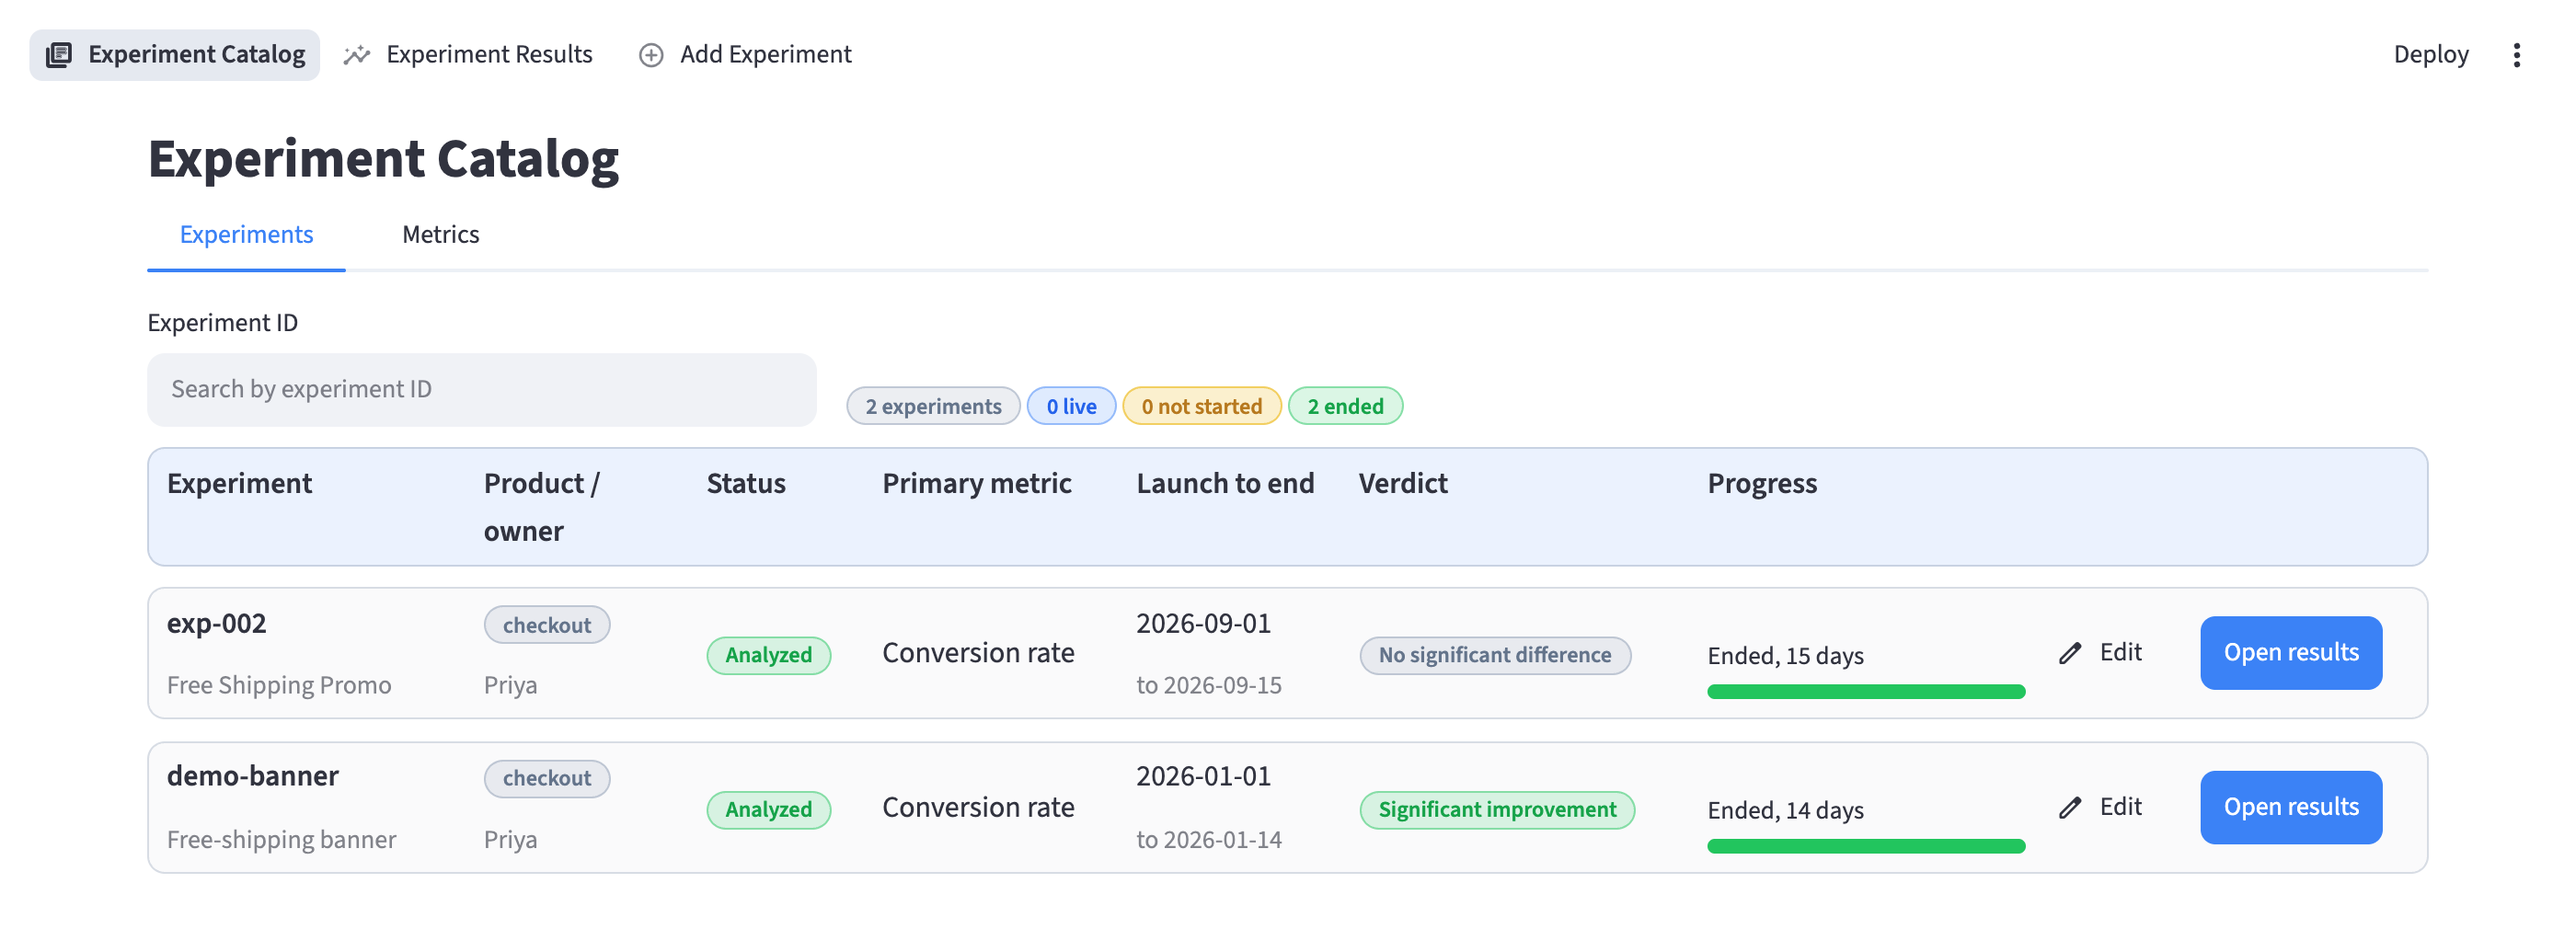
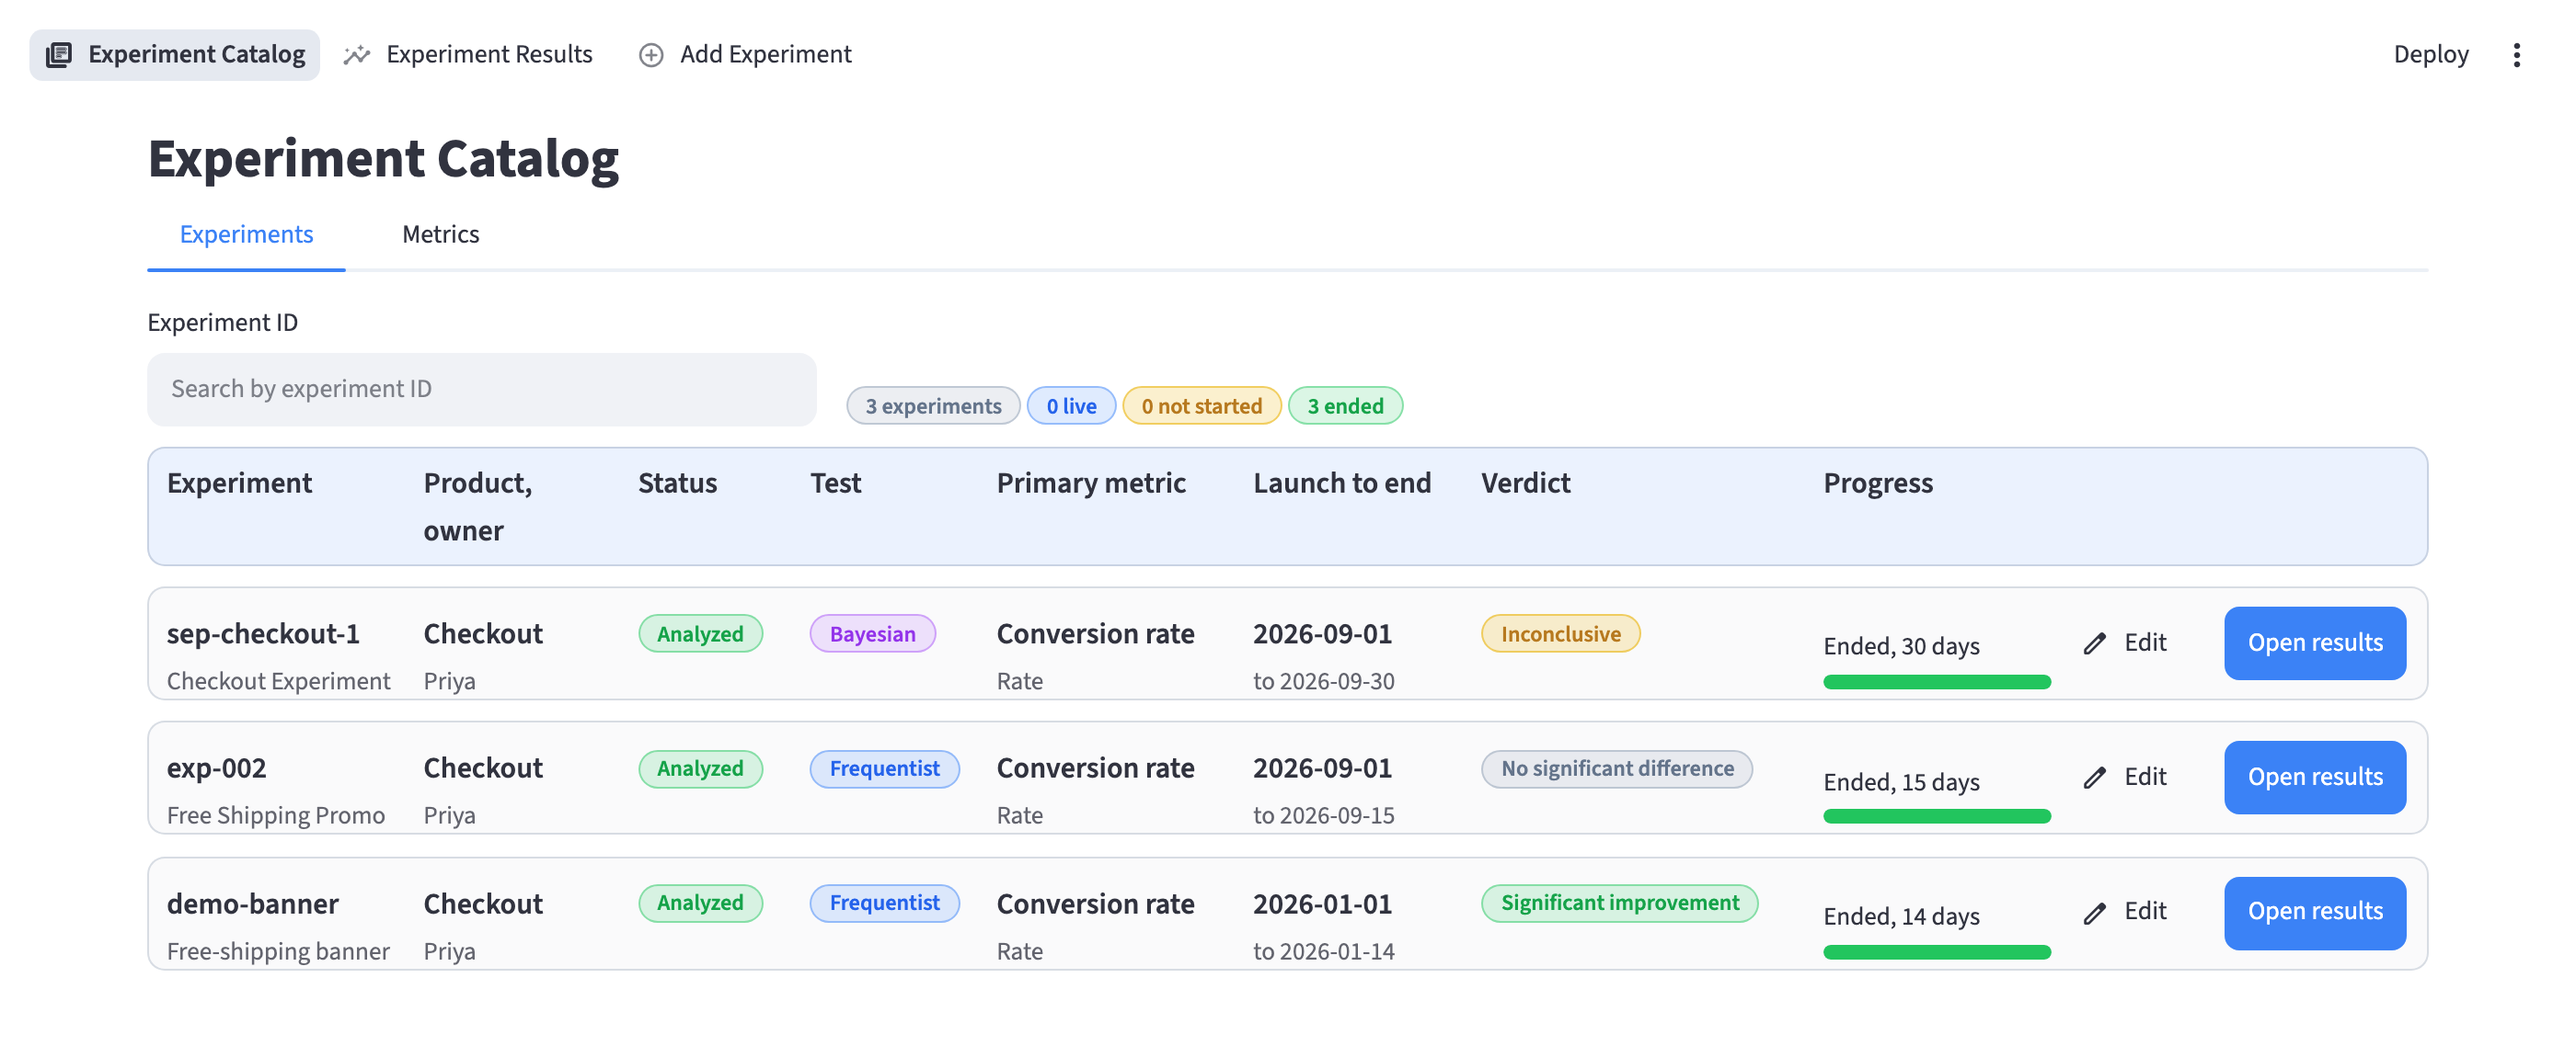
Refresh README, docs and screenshots for the Bayesian method
The README screenshots are retaken from the running app (light theme,
1400 px at 2x): the catalog with its new Test column, the frequentist
results and charts with the new verdict card, new Bayesian results and
charts, and the Add Experiment form with the Bayesian inputs.

Docs
- README: new screenshot captions, the dropdown search and Apply
  button, the verdict card, and the offline test count (458).
- TECH_SPEC: Results, Add Experiment and Catalog page descriptions.
- PLAN.md and the decisions log: note the Bayesian method and the
  refresh.

Catalog table
- Widen the verdict, primary metric and Edit columns so the verdict
  chip and the Edit button no longer wrap or get cut off at desktop
  width, keep chips on one line, and pad the second line of each cell.

diff --git a/app/ui.py b/app/ui.py
@@ -51,13 +51,13 @@ h2, h3 { font-size: 1.15rem !important; font-weight: 650 !important; padding: .1
 [data-testid="stExpander"] { border-radius: .6rem; }
 [data-testid="stAlert"] { border-radius: .6rem; }
 /* chips */
-.chip { display: inline-block; padding: .08rem .6rem; border-radius: 999px; font-size: .76rem; font-weight: 600; border: 1px solid; line-height: 1.35; word-break: keep-all; overflow-wrap: normal; }
+.chip { display: inline-block; padding: .08rem .6rem; border-radius: 999px; font-size: .76rem; font-weight: 600; border: 1px solid; line-height: 1.35; word-break: keep-all; overflow-wrap: normal; white-space: nowrap; }
 .meta { font-size: .85rem; opacity: .85; margin: .15rem 0; }
 .meta b { opacity: 1; }
 .section-note { font-size: .8rem; opacity: .75; margin-top: -.2rem; }
 /* catalog rows: every cell is two lines (a main line and a quieter one) so the columns line up */
 .cell .l1 { font-weight: 600; min-height: 1.9rem; display: flex; align-items: center; }
-.cell .l2 { font-size: .85rem; opacity: .75; min-height: 1.3rem; }
+.cell .l2 { font-size: .85rem; opacity: .75; min-height: 1.3rem; padding-bottom: .3rem; }
 .cell .live { color: #2563eb; opacity: 1; }
 .st-key-cat_header { background: rgba(59,130,246,.10); border: 1px solid rgba(148,163,184,.4); border-radius: .6rem; padding: .35rem .6rem; }
 [class*="st-key-cat_row_"] { border: 1px solid rgba(148,163,184,.35); border-radius: .6rem; padding: .6rem .6rem; background: rgba(148,163,184,.05); }

diff --git a/app/experiment_catalog.py b/app/experiment_catalog.py
@@ -16,7 +16,7 @@ from p2.pipeline.runner import end_of
 
 ss = st.session_state
 MAX_ROWS = 50
-WIDTHS = [2.0, 1.3, 1.3, 1.3, 1.5, 1.4, 2.1, 2.2, 0.9, 1.5]
+WIDTHS = [1.8, 1.5, 1.2, 1.3, 1.8, 1.6, 2.4, 1.8, 1.0, 1.5]
 
 
 def progress_of(launch: date, end: date, today: date) -> tuple[float, str]:

diff --git a/TECH_SPEC.md b/TECH_SPEC.md
@@ -192,9 +192,9 @@ What the data scientist enters:
 
 | Page | Purpose | Roles |
 |---|---|---|
-| Experiment Results | A search box for the Experiment ID. Above two tabs: name, hypothesis, product, owner, status, "Day 12 of 14", the Edit button (opens the experiment in the Experiment Catalog) and Refresh monitoring or Run final analysis or Run. Tab Tables: Segment (Everyone or a segment such as Acquisition channel) and Filter (No filter or a filter) dropdowns, which list only what is in the plan and can be combined. Everyone with no filter shows the main table (metric, role, type, control, variant, difference, lift, users; after the final analysis also p-value, interval, verdict, power). Picking a segment shows one titled table for each of its values (four values, four tables); picking a filter shows the users who pass it. Tab Charts: a metric picker (primary by default, names show the role) above control and variant over time and difference over time (a line, plus a shaded 95% range after the final analysis). There is no simulator on this page; the demo data comes from the dev-only September button on Add Experiment. The run log, history and decision form are not shown | everyone |
-| Add Experiment | Create only. It starts with the Experiment ID alone: an existing id says "already exists, open it in the Experiment Catalog" and hides the form; an id missing from the assignment log stops with "does not exist". Then one page without tabs: Experiment (product, owner shown read-only, name, launch date filled from the first assignment and editable, runtime, optional end date, optional hypothesis), Metrics (primary, guardrails, secondary, with the statistical inputs and a one-line hover tip on every field), Audience (optional segments and filters), then Save and Save and run. After Save the form starts blank for the next experiment | everyone |
-| Experiment Catalog (the default page) | Two sub-tabs. **Experiment catalog:** every experiment, newest first, one row each with ID and name, product and owner, status, primary metric, launch and end date, verdict (the final verdict on the primary metric; blank while live) and a progress bar with a sentence ("Live, day 12 of 14", "Ended, 14 days", "Starts in 3 days"), plus Edit and Open results (jumps to the Experiments page). One filter: Experiment ID. Edit opens the shared experiment form in place, with everything but the ID editable and a Back to list button. **Metric catalog:** one simple table of the available (Certified) metrics only, with the columns Metric, Product, Added by and Definition (the description), and a Select metric search box above it. Segments and filters are not listed. There is nothing to add, review or version in the tool; metrics are added in BigQuery | everyone |
+| Experiment Results | A dropdown of the experiments already in the app (type to filter, for example "sep"; picking one opens it, there is no Search button). Above two tabs: name, hypothesis, product, owner, status, "Day 12 of 14", the Edit button (opens the experiment in the Experiment Catalog) and Refresh monitoring or Run final analysis or Run; the balance card; and the headline: a Lift card and a wide verdict card with the verdict and a one-line reason (the numbers behind it are in the table). Tab Tables: Segment (Everyone or a segment such as Acquisition channel) and Filter (No filter or a filter) dropdowns, which list only what is in the plan and can be combined. Everyone with no filter shows the main table (metric, role, type, control, variant, difference, lift, users; after the final analysis also p-value, interval, verdict, power). Picking a segment shows one titled table for each of its values (four values, four tables); picking a filter shows the users who pass it. Tab Charts: a metric picker with an Apply button (primary by default, names show the role; the charts change only when Apply is pressed) above control and variant over time and difference over time (a line, plus a shaded 95% range after the final analysis). A Bayesian experiment shows the Bayesian charts instead (see section 9). There is no simulator on this page; the demo data comes from the dev-only September button on Add Experiment. The run log, history and decision form are not shown | everyone |
+| Add Experiment | Create only. It starts with the Experiment ID alone: an existing id says "already exists, open it in the Experiment Catalog" and hides the form; an id missing from the assignment log stops with "does not exist". Then one page without tabs: Experiment (product, owner shown read-only, name, launch date filled from the first assignment and editable, runtime, optional end date, optional hypothesis), Metrics (a Frequentist or Bayesian method switch first, then primary, guardrails, secondary, with only that method's inputs and a one-line hover tip on every field), Audience (optional segments and filters), then Save and Save and run. After Save the form starts blank for the next experiment | everyone |
+| Experiment Catalog (the default page) | Two sub-tabs. **Experiment catalog:** every experiment, newest first, one row each, every cell two lines so the columns line up: ID and name, product and owner, status, test type (Bayesian or Frequentist), primary metric and its type, launch and end date, verdict (frequentist: the final verdict on the primary metric, blank while live; Bayesian: the live verdict) and a progress bar with a sentence ("Live, day 12 of 14", "Ended, 14 days", "Starts in 3 days"), plus Edit and Open results (jumps to the Experiments page). One filter: Experiment ID. Edit opens the shared experiment form in place, with everything but the ID editable and a Back to list button. **Metric catalog:** one simple table of the available (Certified) metrics only, with the columns Metric, Product, Added by and Definition (the description), and a Select metric search box above it. Segments and filters are not listed. There is nothing to add, review or version in the tool; metrics are added in BigQuery | everyone |
 
 - Navigation is a bar at the top (Experiment Catalog, Experiment Results, Add Experiment) so charts and tables get the full width; there is no sidebar and no "signed in" label. Everything else is forms, tables, and buttons.
 

diff --git a/README.md b/README.md
@@ -4,26 +4,34 @@ A small internal tool where data scientists add A/B experiments and product mana
 
 ## Screenshots
 
-Synthetic data only. Experiment Catalog (the default page):
+Synthetic data only. Experiment Catalog (the default page): every experiment with its test type (Bayesian or Frequentist), status, verdict and progress.
 
 ![Experiment Catalog](docs/screenshots/catalog.png)
 
-Experiment Results: the balance card on top, headline numbers, and a table per metric.
+Experiment Results, frequentist: the balance card on top, the lift and the verdict with a one-line reason, and a table per metric.
 
-![Experiment Results tables](docs/screenshots/results.png)
+![Experiment Results tables, frequentist](docs/screenshots/results.png)
 
-The same page, Charts tab: control and variant over time, and the difference with its range.
+The same page, Charts tab: control and variant over time, and the difference with its 95% confidence band.
 
-![Experiment Results charts](docs/screenshots/results-charts.png)
+![Experiment Results charts, frequentist](docs/screenshots/results-charts.png)
 
-Add Experiment: type an ID that exists in the assignment log and the form opens.
+Experiment Results, Bayesian: the verdict says why in one line, and the table adds the chance the variant wins, the 95% credible interval and the risk of each choice.
+
+![Experiment Results tables, Bayesian](docs/screenshots/results-bayesian.png)
+
+The same page, Charts tab: control and variant over time, the risk of each choice (on all the data and by day, against the most you accept to lose), and the 95% credible interval and chance the variant wins by day.
+
+![Experiment Results charts, Bayesian](docs/screenshots/results-bayesian-charts.png)
+
+Add Experiment: type an ID that exists in the assignment log, pick the method, and only that method's inputs show (here Bayesian).
 
 ![Add Experiment](docs/screenshots/add-experiment.png)
 
 ## What it does
 
-- **Experiment Catalog** (default page): every experiment with status, progress and verdict, plus a Metrics tab. Edit an experiment in place.
-- **Experiment Results**: search by experiment ID. A card at the top says whether the test is balanced (sample ratio check), then the primary metric, tables (by segment and filter) and charts over time. Frequentist: live numbers while running, full tests and a verdict only after the last day. Bayesian: chance the variant wins, risk of each choice and a verdict that can be read live after a minimum number of days.
+- **Experiment Catalog** (default page): every experiment with its test type, status, verdict and progress, plus a Metrics tab. Edit an experiment in place.
+- **Experiment Results**: pick an experiment from the dropdown (type to filter the ones already in the app). A card at the top says whether the test is balanced (sample ratio check), then the lift and the verdict with a one-line reason, tables (by segment and filter) and charts over time. Frequentist: live numbers while running, full tests and a verdict only after the last day. Bayesian: chance the variant wins, risk of each choice and a verdict that can be read live after a minimum number of days. The Charts tab changes only when you press Apply.
 - **Add Experiment**: the data scientist picks the method (Frequentist or Bayesian) and enters the plan for it. Frequentist asks for their own statistics numbers (the tool does not do power calculations); Bayesian asks for a risk threshold and a minimum number of days, with defaults. The ID must already exist in the experiment tool's assignment log.
 - **Runs** go to a background queue (4 at a time, one per experiment) so pages stay fast.
 
@@ -51,7 +59,7 @@ streamlit run app/streamlit_app.py
 ## Tests
 
 ```bash
-pytest -m "not bq"    # offline, about 25 seconds
+pytest -m "not bq"    # offline, 458 tests, about 30 seconds
 pytest -m bq          # against BigQuery in throwaway datasets, very slow
 ```
 

diff --git a/P2_Decisions_Log.md b/P2_Decisions_Log.md
@@ -415,3 +415,4 @@ Entries are chronological and later entries supersede earlier ones. Superseded b
   - **Search:** the Experiment Results search is now a dropdown of the experiments already in the app: typing "sep" lists the matching ids and picking one opens it (no Search button, and an id that is not in the app cannot be entered).
   - **Chart filter:** the metrics picked on the Charts tab take effect only when Apply is pressed, so the charts do not jump while picking.
   - **Catalog table:** every cell is two lines (a main line and a quieter one) so the columns line up, and a new Test column shows Bayesian or Frequentist. The primary metric shows its type (rate or continuous) underneath.
+- **Docs and screenshots refreshed (same day).** The README screenshots were retaken with headless Chrome (light theme, 1400 px at 2x) from the running app: catalog (with the Test column), frequentist results and charts, and new Bayesian results and charts, and the Add Experiment form with the Bayesian inputs. The README, TECH_SPEC and PLAN.md describe the dropdown search, the Apply button, the wide verdict card and the two-line catalog cells. The catalog column widths were widened so verdict chips and the Edit button no longer wrap or get cut off.

diff --git a/PLAN.md b/PLAN.md
@@ -158,4 +158,5 @@ Legend: DONE = covered by a completed module. PREREQ = must learn first. GAP = s
 - [x] Scalability step 3, Runs in the background (2026-10-01): Run, Refresh and Save and run queue the work and return at once; 4 at a time, one per experiment; retries for temporary BigQuery problems; a live status line on the results page and a "Run in progress" marker in the catalog; every Run ends cleanly and stale "running" jobs are recovered at start
 - [x] R6 Portfolio dashboard (2026-10-01): covered by the Experiment Catalog (default page); win rate and decision history skipped for the demo
 - [x] SRM check (2026-10-01): a card at the top of Experiment Results says the test is balanced, or warns when the split is off
+- [x] Bayesian method (2026-10-03): chosen per experiment on Add Experiment; Beta-Binomial and Normal posteriors with a flat prior, chance to win, 95% credible interval, risk of each choice and a live verdict after a minimum number of days; Bayesian charts for PMs; wide verdict card with a one-line reason for both methods; search dropdown, chart Apply button and a catalog table with a Test column; screenshots retaken. See P2_Decisions_Log.md
 - [ ] R7 Ship and operate (skipped for the demo)
